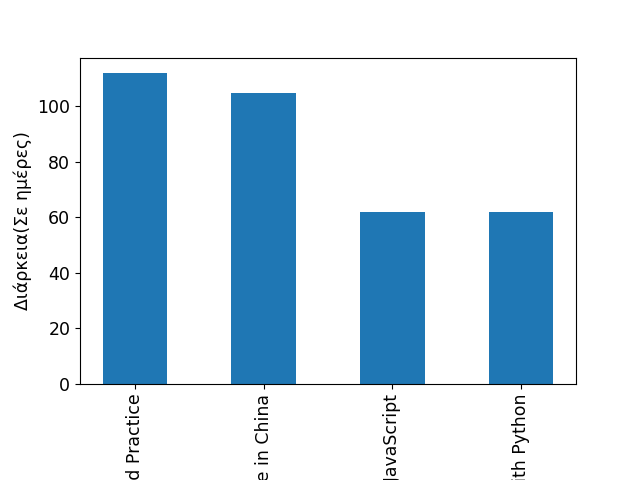
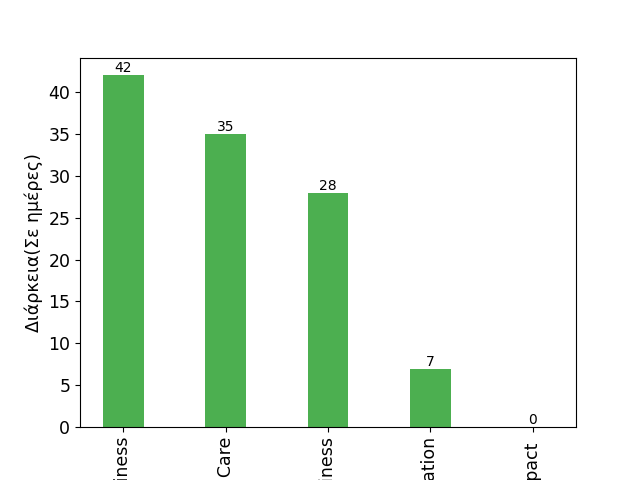
Made some changes

diff --git a/scraper.py b/scraper.py
@@ -8,7 +8,7 @@ import json
 
 def HarvardScraper(url):
     all_Harvard_courses = []
-    number_of_courses = 6
+    number_of_courses = 50
 
 
     res = requests.get(url)
@@ -74,7 +74,7 @@ def HarvardScraper(url):
 
 def ClassCentralScraper(url):
     all_ClassCentral_courses = []
-    number_of_courses = 6
+    number_of_courses = 50
 
 
 
@@ -177,7 +177,7 @@ def ClassCentralScraper(url):
 
 def CourseraScraper(url):
     Coursera_courses = []
-    number_of_courses = 6
+    number_of_courses = 50
 
 
 
@@ -263,7 +263,7 @@ def CourseraScraper(url):
             })
 
     df = pd.DataFrame(Coursera_courses)
-    df = normalize_data(df)
+
     return df
 
 
@@ -288,12 +288,75 @@ def normalize_data(df):
     }
 
 
+    # 2. Κατηγοριοποίηση των Subject Categories
+    mapping2 = {
+        # --- COMPUTER SCIENCE & TECH ---
+        'computer science': 'Computer Science',
+        'programming': 'Computer Science',
+        'python': 'Computer Science',
+        'programming with javascript': 'Computer Science',
 
+        # --- BUSINESS & ECONOMICS ---
+        'business': 'Business & Management',
+        'marketing': 'Business & Management',
+        'art & design': 'Business & Management',  # Όπως το Management Essentials
+        'persuasive leadership': 'Business & Management',
 
-    df['Difficulty'] = df['Difficulty'].str.lower().replace(mapping1) #
-    df['Course Length (in Days)'] = df['Course Length (in Days)'].replace('N/A', 0)
+        # --- HEALTH & SCIENCE ---
+        'health & medicine': 'Health & Science',
+        'disease & disorders': 'Health & Science',
+        'dementia': 'Health & Science',
+        'parasitology': 'Health & Science',
+        'biology': 'Health & Science',
+
+        # --- DATA SCIENCE & STEM ---
+        'data science': 'Data Science & STEM',
+        'ciencia de datos: fundamentos de r': 'Data Science & STEM',
+        'quantum mechanics': 'Data Science & STEM',
+        'paleontology': 'Data Science & STEM',
+        'environmental science': 'Data Science & STEM',
+
+        # --- HUMANITIES & SOCIAL SCIENCES ---
+        'social sciences': 'Humanities & Social Sciences',
+        'humanities': 'Humanities & Social Sciences',
+        'teacher professional development': 'Humanities & Social Sciences',
+        'poetry': 'Humanities & Social Sciences',
+        'dutch': 'Humanities & Social Sciences',
+        'mindfulness': 'Humanities & Social Sciences',
+        'self improvement': 'Humanities & Social Sciences'
+    }
+
+    df['Difficulty'] = df['Difficulty'].str.lower().str.strip().replace(mapping1)
+    df['Subject Category'] = df['Subject Category'].str.lower().str.strip()
+    df['Subject Category'] = df['Subject Category'].replace(mapping2)
     df['Price (in $)'] = np.ceil(df['Price (in $)'].replace(np.nan, 0)).astype(int)
 
 
     return df
 
+'''
+    mapping2 = {
+        'business': 'Business',
+        'marketing': 'Marketing',
+        'python': 'Python',
+        'programming': 'Programming',
+        'data science': 'Data Science',
+        'computer science': 'Computer Science',
+        'health & medicine': 'Health & Medicine',
+        'disease & disorders': 'Disease & Disorders',
+        'dementia': 'Dementia',
+        'parasitology': 'Parasitology',
+        'teacher professional development': 'Teacher Development',
+        'environmental science': 'Environmental Science',
+        'humanities': 'Humanities',
+        'self improvement': 'Self Improvement',
+        'paleontology': 'Paleontology',
+        'biology': 'Biology',
+        'quantum mechanics': 'Quantum Mechanics',
+        'dutch': 'Dutch',
+        'mindfulness': 'Mindfulness',
+        'social sciences': 'Social Sciences',
+        'art & design': 'Art & Design',
+        'poetry': 'Poetry'
+    }
+'''

diff --git a/gui.py b/gui.py
@@ -62,25 +62,35 @@ def add_subjects():
 
 
 def export_data():
-
     global scraped_data_df
-    flag = askyesno("Confirm Data Exportation", "Are you sure you're ready?")
-
-    AppendOrNot=askyesno("Confirm Append Mode", "Append Mode or Rewrite Mode to CSV(Yes for append, No for Rewrite)")
-    mode="a" if AppendOrNot else "w"
-    header=False if AppendOrNot else True
     if scraped_data_df.empty:
         messagebox.showwarning("Warning", "Δεν υπάρχουν δεδομένα για εξαγωγή.")
         return
 
-    if flag:
-        filename = "courses_1115515.csv"
-        if AppendOrNot and mode=="a":
-            delete_duplicates_in_csv().to_csv(filename,mode=mode, index=False, header=header)
-        else:
-            scraped_data_df.to_csv(filename, mode=mode,index=False, header=header)
-        print(f"[System] Status: Export to {filename} Successful")
-        messagebox.showinfo("Export Success", f"Τα δεδομένα αποθηκεύτηκαν στο {filename}")
+
+    flag = askyesno("Confirm Data Exportation", "Are you sure you're ready?")
+    if not flag:
+        return
+
+
+    filename = "courses_1115515.csv"
+    AppendOrNot=askyesno("Confirm Append Mode", "Append Mode or Rewrite Mode to CSV(Yes for append, No for Rewrite)")
+    mode="a" if AppendOrNot else "w"
+    header=False if AppendOrNot else True
+
+    scraped_data_df = scraped_data_df.drop_duplicates(subset=["Title"])
+
+
+    if AppendOrNot and mode=="a":
+        new_data=delete_duplicates_in_csv()
+        if new_data.empty:
+            messagebox.showinfo("CSV Export Info", "No new Data were found!")
+            return
+        new_data.to_csv(filename,mode=mode, index=False, header=header)
+    else:
+        scraped_data_df.to_csv(filename, mode=mode,index=False, header=header)
+    print(f"[System] Status: Export to {filename} Successful")
+    messagebox.showinfo("Export Success", f"Τα δεδομένα αποθηκεύτηκαν στο {filename}")
 
 
 
@@ -105,7 +115,7 @@ def delete_duplicates_in_csv():
 if __name__ == "__main__":
     root = tk.Tk()
     root.geometry("1280x720")
-    root.title("Web scraper Python")
+    root.title("Web scraper Python ΑΓΓΕΛΟΠΟΥΛΟΣ ΓΡΗΓΟΡΙΟΣ ΠΑΝΑΓΙΩΤΗΣ 1115514 ΚΟΠΙΤΣΑΣ ΝΙΚΟΛΑΣ 115515")
 
     frame1 = tk.Frame(root, width=500, height=500)
     paddingYVal = 10

diff --git a/plots.py b/plots.py
@@ -2,7 +2,7 @@ import matplotlib
 import matplotlib.pyplot as plt
 import numpy as np
 import pandas as pd
-from matplotlib.pyplot import xlabel
+from matplotlib.pyplot import xlabel, title
 from pandas.plotting._matplotlib import BarPlot
 
 
@@ -11,7 +11,7 @@ def LineChart():
     df = df.sort_values(by= "Course Length (in Days)")
     x = df["Course Length (in Days)"]
     y = df["Price (in $)"]
-    plt.plot(x, y, marker='o')
+    plt.plot(x, y, marker='o', color="#ff4d4d")
     plt.grid(True)
     plt.xlabel("Course Length (in Days)")
     plt.ylabel("Price (in $)")
@@ -41,31 +41,39 @@ def PieChart():
     my_labels = [label1, label2, label3]
     plt.figure(figsize=(10, 7))
     plt.title("Μαθήματα ανάλογα με δυσκολία")
-    plt.pie(data)
+    myexplode = [0.1, 0, 0]
+    plt.pie(data, explode=myexplode, shadow=True)
 
-    plt.legend(labels=my_labels)
+    plt.legend(title="Difficulties",labels=my_labels)
 
     plt.show()
 
-def barPlot():
+def BarPlot():
     matplotlib.rcParams.update({'figure.autolayout': True})
     df = pd.read_csv("courses_1115515.csv", delimiter=',')
     dfSorted= df.sort_values(by= "Course Length (in Days)" , ascending=False)
 
-    rows,cols = dfSorted.shape
 
-    names = dfSorted.head(5)["Title"]
-    values = dfSorted.head(5)["Course Length (in Days)"]
+    top5=dfSorted.head(5)
+
+
+    names = top5["Title"]
+    values = top5["Course Length (in Days)"]
+    cols=len(names)
+
     fig = plt.figure()
-    plt.xticks(range(rows))
-    plt.subplots_adjust(bottom=0.2)
-    plt.bar(names,values, width=0.5)
+    bars=plt.bar(range(cols),values, width=0.4, color="#4CAF50")
+    plt.xticks(range(cols), names, rotation=90)
+    plt.bar_label(bars)
 
-    plt.ylabel('Διάρκεια(Σε ημέρες)', fontsize = 12.5)
+    #Αντί για διάρκεια σε ώρες, το κάναμε διάρκεια σε ημέρες επειδή η πληθώρα μαθημάτων (όλα για την ακρίβεια) είχαν τον χρόνο
+    # μαθημάτων σε ημέρες,εβδομάδες, μήνες
+    plt.ylabel('Διάρκεια (Σε ημέρες)', fontsize = 12.5)
     plt.tick_params(axis='x',rotation=90,labelsize=12.5)
     plt.tick_params(axis='y', labelsize=12.5)
     plt.savefig("filtered.png")
     plt.show()
+
 LineChart()
 PieChart()
-barPlot()
+BarPlot()